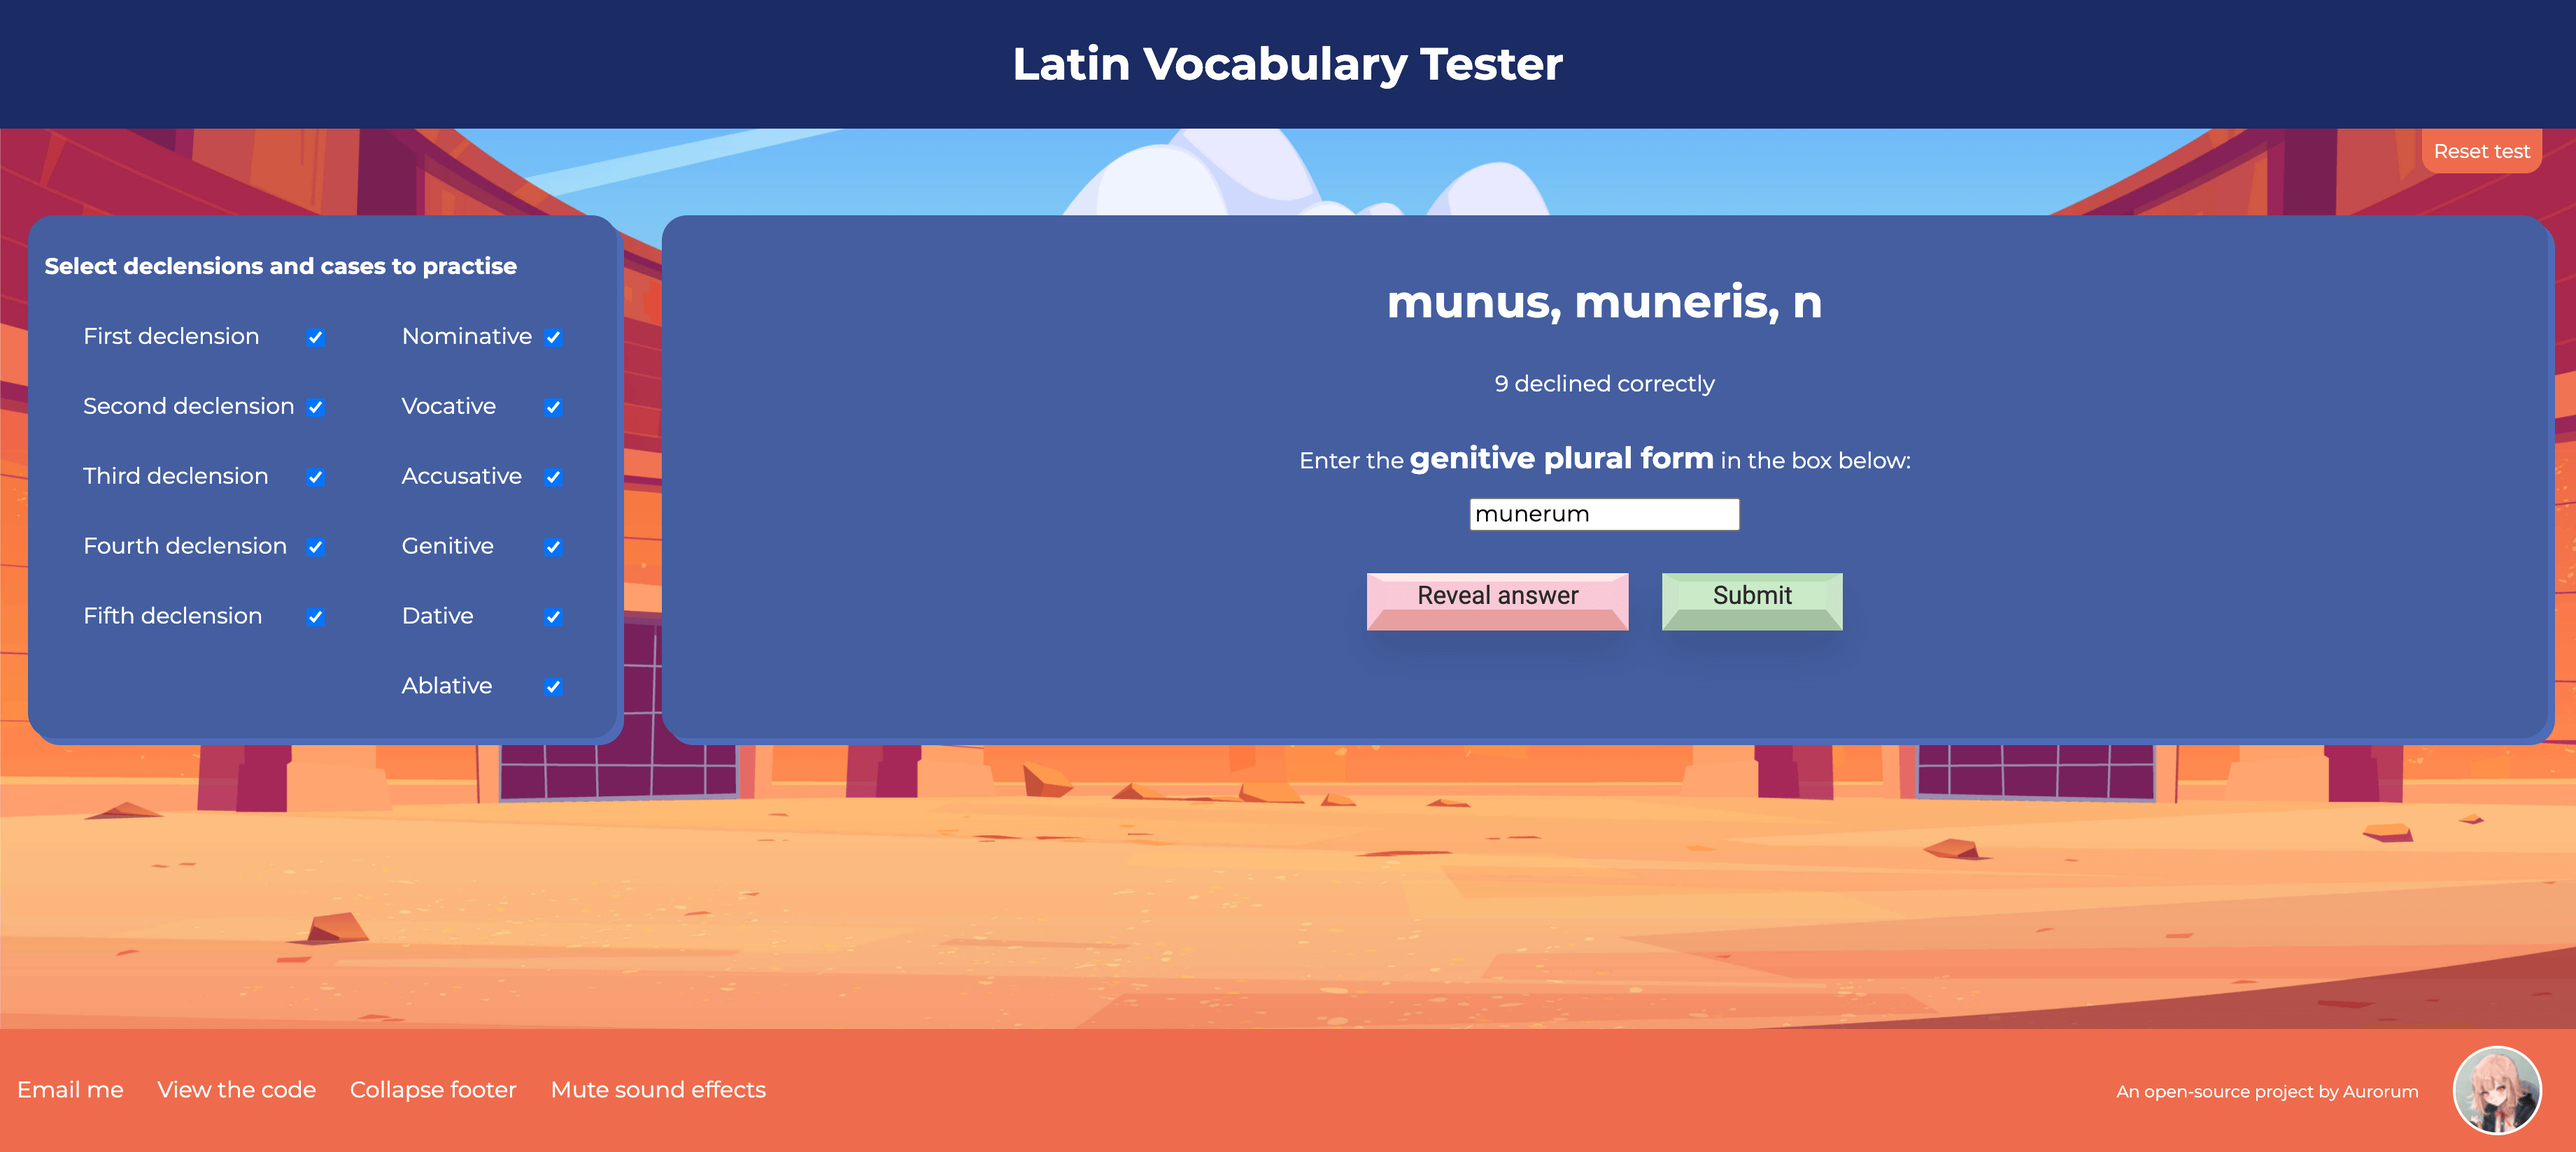
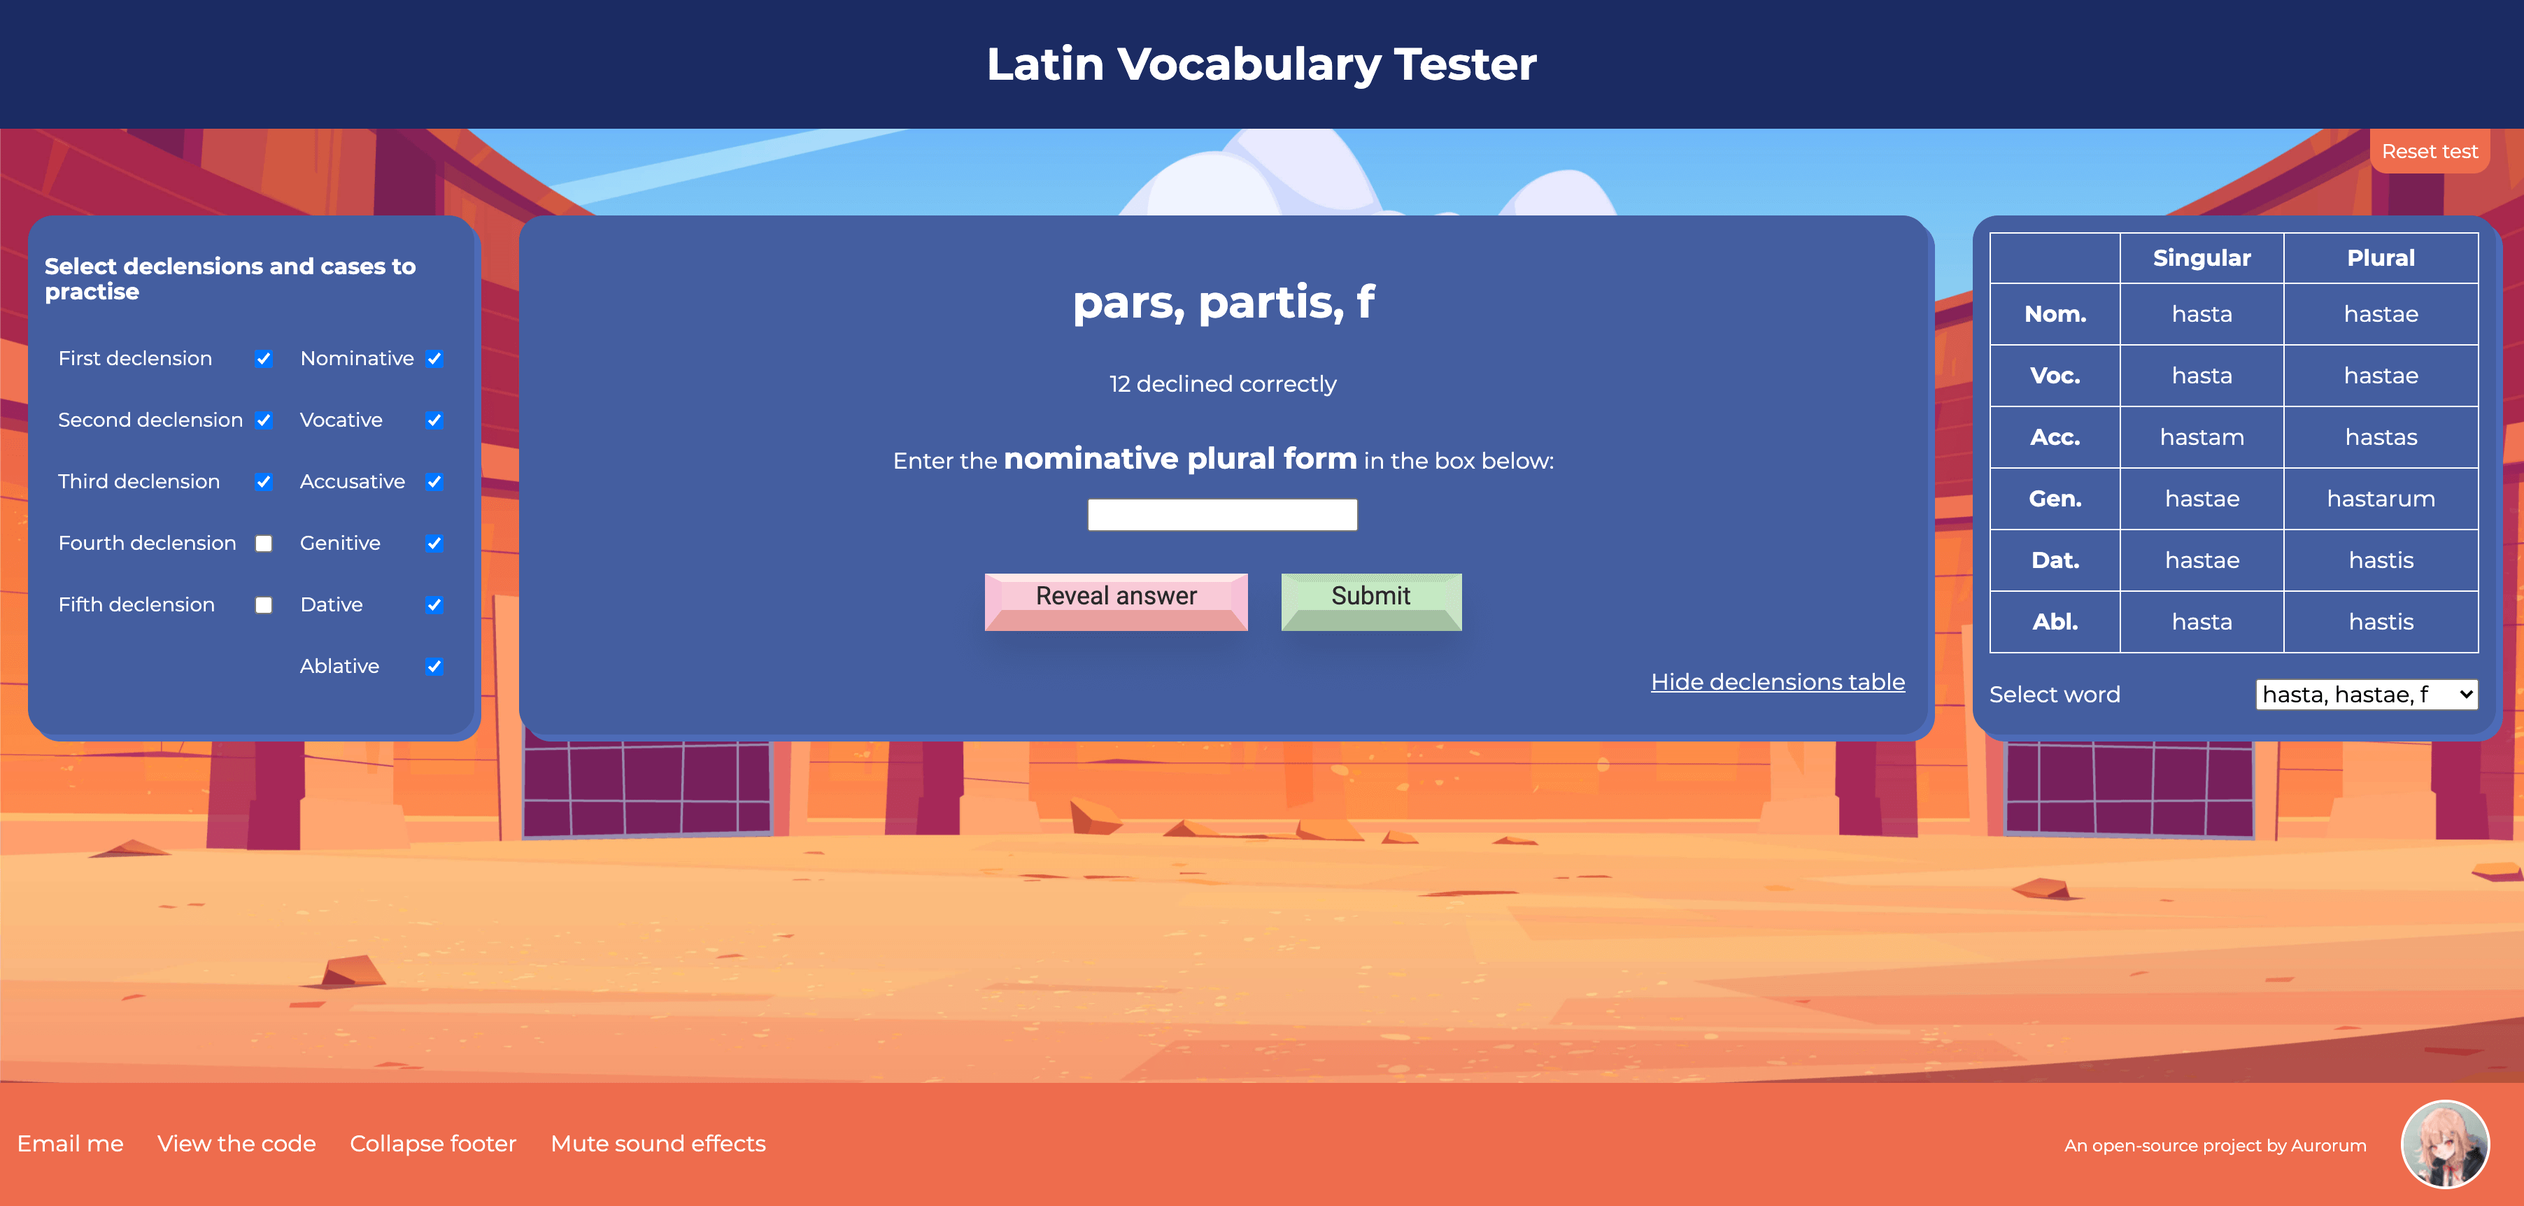
Add noun declension tables to Practice mode

diff --git a/scripts.js b/scripts.js
@@ -1,5 +1,5 @@
-let acceptableCases = [];
-let acceptableVerbs = [];
+let acceptableCases = [ 0, 1, 2, 3, 4, 5, 6, 7, 8, 9, 10, 11 ];
+let acceptableVerbs = [ 0, 1, 2, 3, 4, 5, 6, 7, 8, 9, 10, 11, 12, 13, 14, 15, 16, 17, 18, 19 ];
 let acceptableVocab = [];
 let allVocab = [];
 let competitiveMode = false;
@@ -127,14 +127,6 @@ window.onload = function () {
 		muteAudio();
 	}
 
-	for ( let i = 0; i < 12; i++ ) {
-		acceptableCases.push( i );
-	}
-
-	for ( let i = 0; i < 20; i++ ) {
-		acceptableVerbs.push( i );
-	}
-
 	for ( let i = 1; i < 301; i++ ) {
 		var option = document.createElement( 'option' );
 		option.text = i;
@@ -229,7 +221,7 @@ function startTest( startDeclensionTest = false, startConjugationTest = false ) 
 			);
 			for ( let i = 0; i < subjunctiveCheckboxes.length; i++ ) {
 				subjunctiveCheckboxes[ i ].checked = false;
-				handleVerbSelection( subjunctiveCheckboxes[ i ] );
+				handleVerbSelection( subjunctiveCheckboxes[ i ], false );
 			}
 		}
 		document.body.classList.add( 'has-begun-conjugation-test' );
@@ -465,12 +457,21 @@ function buildDeclensionOrConjugationTest( isConjugationTest = false ) {
 		isTestingDeclensions = true;
 		handleNounDeclensions();
 	}
-	finalVocab[ randomNumber ].asked = true;
+	vocabwithNumber.asked = true;
+
+	if ( isTestingDeclensions && ! competitiveMode ) {
+		let select = document.getElementById( 'declension-table-select' );
+		let option = document.createElement( 'option' );
+
+		option.text = vocabwithNumber.word;
+		select.add( option );
+		select.selectedIndex = select.length - 1;
+	}
 
 	document.getElementById( 'vocab-question' ).innerHTML = vocabwithNumber.word;
 }
 
-function handleVerbSelection( e ) {
+function handleVerbSelection( e, manualChange = true ) {
 	if ( ! document.querySelectorAll( '.select-verbs input[type="checkbox"]:checked' ).length ) {
 		e.checked = true;
 		return ( document.getElementById( 'verbs-warning' ).style.display = 'block' );
@@ -546,10 +547,12 @@ function handleVerbSelection( e ) {
 		acceptableVerbs.splice( acceptableVerbs.indexOf( verbNumber ), 1 );
 	}
 
-	collectData( 'Set verb selection ' + e.id + ' to be ' + e.checked, 'set_case_settings' );
-
 	document.getElementById( 'verbs-warning' ).style.display = 'none';
-	buildDeclensionOrConjugationTest( true );
+
+	if ( manualChange ) {
+		collectData( 'Set verb selection ' + e.id + ' to be ' + e.checked, 'set_case_settings' );
+		buildDeclensionOrConjugationTest( true );
+	}
 }
 
 function handleVerbConjugations() {
@@ -772,7 +775,40 @@ function handleNounDeclensions() {
 			break;
 	}
 	document.getElementById( 'vocab-submit-word-form' ).innerHTML = wordForm + ' form';
+
 	return vocabDeclension;
+}
+
+function constructDeclensionTable() {
+	let answer = findWord( document.getElementById( 'declension-table-select' ).value )[ 0 ];
+	let declensionTable = document.querySelectorAll( '.further-content table td' );
+
+	collectData( 'Answer declension table shown for ' + answer.word, 'constructed_declension_table' );
+
+	for ( let i = 0; i < declensionTable.length; i++ ) {
+		if ( declensionTable[ i ].id && declensionTable[ i ].id.endsWith( 'slot' ) ) {
+			declensionTable[ i ].innerHTML = answer[ declensionTable[ i ].id.replace( '-slot', '' ) ];
+		}
+	}
+}
+
+function toggleDeclensionTable( show ) {
+	if ( ! show ) {
+		document.getElementById( 'declension-table' ).style.display = 'none';
+		document.getElementById( 'declensions-table-prompt' ).innerHTML = 'Show declensions table';
+		document.getElementById( 'declensions-table-prompt' ).onclick = function () {
+			toggleDeclensionTable( true );
+		};
+		document.body.classList.remove( 'is-displaying-declension-table' );
+	} else {
+		constructDeclensionTable();
+		document.getElementById( 'declension-table' ).style.display = 'block';
+		document.getElementById( 'declensions-table-prompt' ).innerHTML = 'Hide declensions table';
+		document.getElementById( 'declensions-table-prompt' ).onclick = function () {
+			toggleDeclensionTable( false );
+		};
+		document.body.classList.add( 'is-displaying-declension-table' );
+	}
 }
 
 function buildTest() {
@@ -972,7 +1008,7 @@ function checkDeclensionOrConjugationAnswer( shouldReveal = false ) {
 	if ( shouldReveal ) {
 		answerInput.value = actualAnswer;
 		collectData(
-			'Answered revealed in ' +
+			'Answer revealed in ' +
 				testType +
 				' test for ' +
 				question +
@@ -999,6 +1035,9 @@ function checkDeclensionOrConjugationAnswer( shouldReveal = false ) {
 				'correct_' + testType + '_answer'
 			);
 			answerInput.focus();
+			if ( isTestingDeclensions ) {
+				toggleDeclensionTable( false );
+			}
 			return buildDeclensionOrConjugationTest( isTestingConjugations );
 		}
 

diff --git a/style.css b/style.css
@@ -623,9 +623,26 @@ a:hover {
 	background: linear-gradient( 90deg, rgb( 101, 212, 42 ) 36%, rgba( 81, 214, 10, 1 ) 92% );
 }
 
-.times-wrong {
+.times-wrong,
+.show-declension-table-toggle {
 	text-align: right;
 	margin-right: 4px;
+}
+
+.show-declension-table-toggle a {
+	cursor: pointer;
+	text-decoration: underline;
+}
+
+.declension-return-to-test-prompt {
+	display: none;
+	margin-top: 32px;
+	text-align: right;
+}
+
+.declension-return-to-test-prompt a {
+	cursor: pointer;
+	text-decoration: underline;
 }
 
 .celebration {
@@ -794,12 +811,14 @@ a:hover {
 .has-begun-declension-test .progress-bar,
 .has-begun-conjugation-test .progress-bar,
 .select-declensions-wrapper,
-.select-verbs-wrapper {
+.select-verbs-wrapper,
+.show-declension-table-toggle {
 	display: none;
 }
 
 .has-begun-declension-test:not( .is-competitive-mode ) .left-content .select-declensions-wrapper,
 .has-begun-conjugation-test:not( .is-competitive-mode ) .left-content .select-verbs-wrapper,
+.has-begun-declension-test:not( .is-competitive-mode ) .show-declension-table-toggle,
 .has-begun-vocab-test .options-menu a:nth-of-type( 1 ) {
 	display: block;
 }
@@ -830,6 +849,10 @@ a:hover {
 
 .select-verbs-wrapper .verb-division {
 	margin-top: 14px;
+}
+
+.select-declensions p {
+	font-size: 14px;
 }
 
 .select-verbs p {
@@ -875,6 +898,10 @@ a:hover {
 	margin-top: 18px;
 }
 
+.has-begun-conjugation-test:not( .is-competitive-mode ) .right-content {
+	align-self: flex-start;
+}
+
 #vocab-tester-wrapper {
 	justify-content: normal;
 }
@@ -895,16 +922,62 @@ a:hover {
 }
 
 .left-content,
-#vocab-tester-wrapper .right-content {
+#vocab-tester-wrapper .right-content,
+.further-content {
 	background: #445ea0;
 	border-radius: 18px;
 	box-shadow: 5px 5px #4d6bb7;
-	color: white;
+	color: #fff;
 	padding: 12px;
 }
 
 #vocab-tester-wrapper .right-content {
 	width: 100%;
+}
+
+.further-content {
+	display: none;
+	margin-left: 32px;
+}
+
+.further-content table,
+.further-content th,
+.further-content td {
+	border: 1px solid #fff;
+	border-collapse: collapse;
+	color: #fff;
+	margin: auto;
+	text-align: center;
+}
+
+.further-content table {
+	min-width: 350px;
+	overflow: hidden;
+}
+
+.further-content td {
+	padding: 12px;
+}
+
+.further-content th {
+	padding: 8px;
+}
+
+.further-content td:first-of-type,
+.further-content th {
+	font-weight: 600;
+}
+
+.declension-table-select-wrapper.toggle {
+	margin-top: 18px;
+}
+
+.declension-table-select-wrapper p {
+	margin: auto 12px auto 0;
+}
+
+.declension-table-select-wrapper select {
+	width: 160px;
 }
 
 #vocab-question {
@@ -1131,6 +1204,25 @@ input:checked + .slider:before {
 	}
 }
 
+@media only screen and ( max-width: 1200px ) and ( min-width: 600px ) {
+	.is-displaying-declension-table .right-content {
+		display: none;
+	}
+
+	.further-content {
+		margin-left: 0;
+		width: 100%;
+	}
+
+	.declension-return-to-test-prompt {
+		display: block;
+	}
+
+	.declension-table-select-wrapper select {
+		width: 50%;
+	}
+}
+
 @media only screen and ( max-width: 1024px ) {
 	.competition-option-button {
 		border-radius: 6px;
@@ -1234,13 +1326,28 @@ input:checked + .slider:before {
 	}
 
 	#vocab-tester-wrapper .left-content,
-	#vocab-tester-wrapper .right-content {
+	#vocab-tester-wrapper .right-content,
+	.further-content {
 		margin: auto;
 		text-align: center;
 		width: 80%;
 	}
 
-	#vocab-tester-wrapper .right-content {
+	#vocab-tester-wrapper .right-content,
+	.further-content {
 		margin-bottom: 32px;
+	}
+
+	.further-content table {
+		min-width: 0;
+		font-size: 12px;
+	}
+
+	.declension-table-select-wrapper select {
+		width: 50%;
+	}
+
+	.has-begun-declension-test:not( .is-competitive-mode ) .right-content {
+		order: 1;
 	}
 }

diff --git a/index.html b/index.html
@@ -496,6 +496,11 @@
 						<p id="vocab-times-wrong" class="times-wrong">
 							Incorrectly answered: <span id="vocab-incorrect-count">0</span> times
 						</p>
+						<p class="show-declension-table-toggle">
+							<a id="declensions-table-prompt" onclick="toggleDeclensionTable(true)"
+								>Show declensions table</a
+							>
+						</p>
 					</div>
 				</div>
 
@@ -528,6 +533,60 @@
 						</div>
 					</div>
 				</div>
+			</div>
+			<div class="further-content" id="declension-table">
+				<table>
+					<thead>
+						<tr>
+							<th></th>
+							<th>Singular</th>
+							<th>Plural</th>
+						</tr>
+					</thead>
+					<tbody>
+						<tr>
+							<td>Nom.</td>
+							<td id="noms-slot"></td>
+							<td id="nomp-slot"></td>
+						</tr>
+						<tr>
+							<td>Voc.</td>
+							<td id="vocs-slot"></td>
+							<td id="vocp-slot"></td>
+						</tr>
+						<tr>
+							<td>Acc.</td>
+							<td id="accs-slot"></td>
+							<td id="accp-slot"></td>
+						</tr>
+						<tr>
+							<td>Gen.</td>
+							<td id="gens-slot"></td>
+							<td id="genp-slot"></td>
+						</tr>
+						<tr>
+							<td>Dat.</td>
+							<td id="dats-slot"></td>
+							<td id="datp-slot"></td>
+						</tr>
+						<tr>
+							<td>Abl.</td>
+							<td id="abls-slot"></td>
+							<td id="ablp-slot"></td>
+						</tr>
+					</tbody>
+				</table>
+				<div class="toggle declension-table-select-wrapper">
+					<p>Select word</p>
+					<select
+						onchange="constructDeclensionTable()"
+						id="declension-table-select"
+						size="1"
+					></select>
+				</div>
+				<p class="declension-return-to-test-prompt">
+					<a onclick="toggleDeclensionTable(false)">Return to test</a>
+				</p>
 			</div>
 		</div>
 		<div id="vocab-selector" class="main-content">
